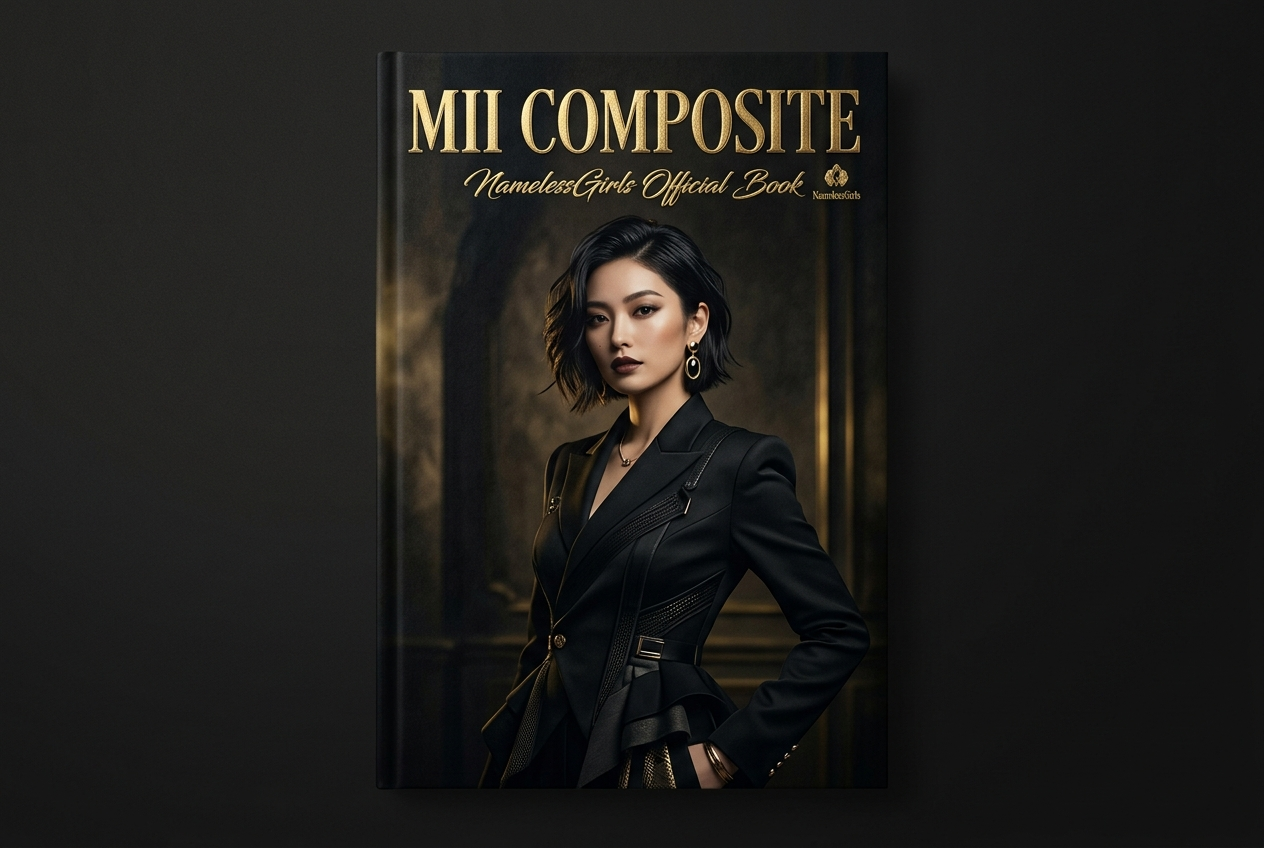
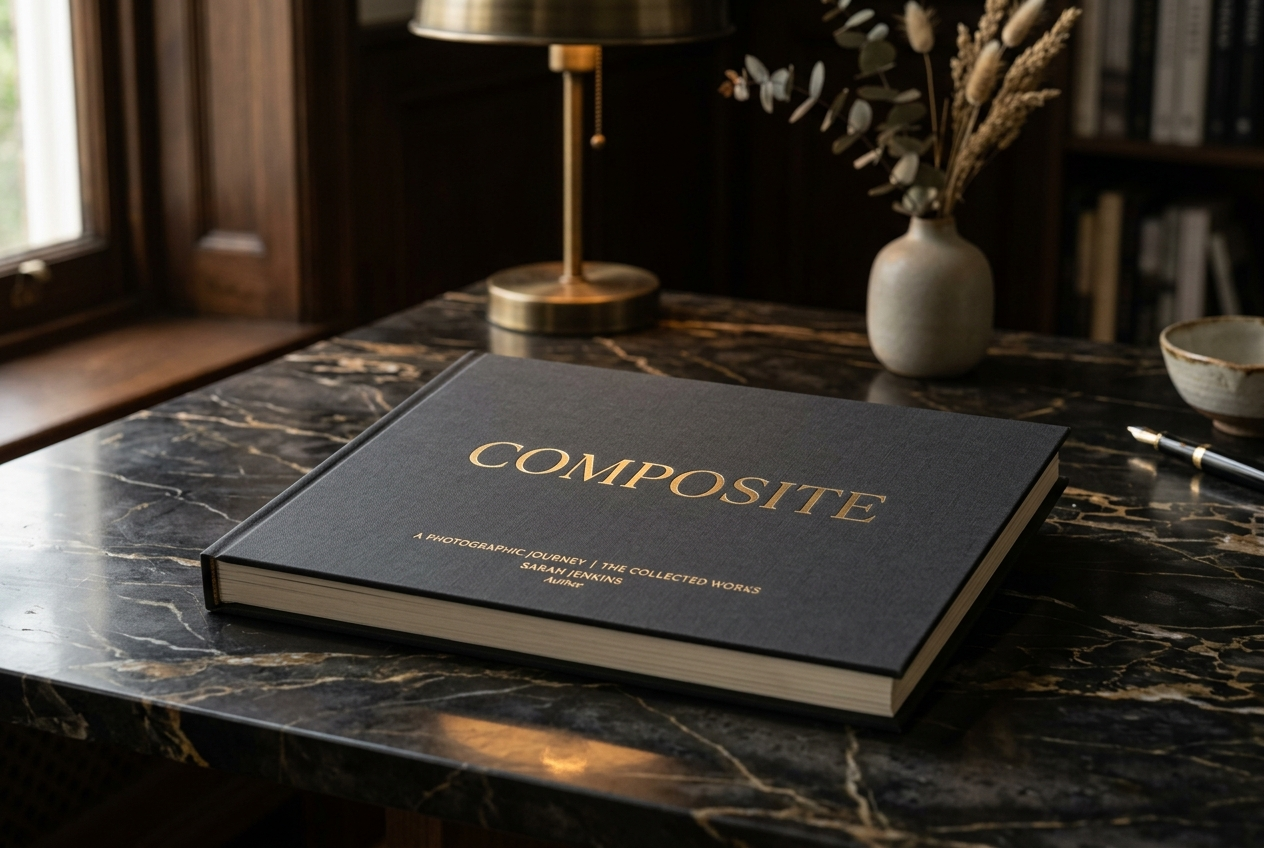
Auto-deploy: Update BOOTH link and sync repository

diff --git a/index.html b/index.html
@@ -23,7 +23,7 @@
   <link rel="stylesheet" href="https://cdnjs.cloudflare.com/ajax/libs/font-awesome/6.5.1/css/all.min.css">
   
   <!-- Custom Stylesheet with Cache Buster -->
-  <link rel="stylesheet" href="style.css?v=18.0">
+  <link rel="stylesheet" href="style.css?v=19.0">
 </head>
 <body>
 
@@ -303,7 +303,7 @@
         <!-- Digital Photo Book Shop -->
         <a href="https://namelessgirls.booth.pm/" target="_blank" class="shop-card glass-panel">
           <div class="shop-card-img-wrapper">
-            <img src="assets/images/photobook_cover.jpg?v=16.0" alt="Mii Photobook Cover" class="shop-card-img">
+            <img src="assets/images/photobook_cover.jpg?v=18.0" alt="Mii Photobook Cover" class="shop-card-img">
           </div>
           <div class="shop-card-content">
             <div class="shop-info-text">
@@ -323,7 +323,7 @@
         <!-- New Integrated Concept Store (Rakuten & Amazon merge) -->
         <a href="store.html" class="shop-card glass-panel">
           <div class="shop-card-img-wrapper">
-            <img src="assets/images/rakuten_preview.jpg?v=17.0" alt="Secret Store Items" class="shop-card-img">
+            <img src="assets/images/rakuten_preview.jpg?v=18.0" alt="Secret Store Items" class="shop-card-img">
           </div>
           <div class="shop-card-content">
             <div class="shop-info-text">

diff --git a/rin.html b/rin.html
@@ -18,7 +18,7 @@
   <link href="https://fonts.googleapis.com/css2?family=Yomogi&family=Zen+Kurenaido&family=Mr+De+Haviland&display=swap" rel="stylesheet">
 
   <!-- Custom Stylesheet -->
-  <link rel="stylesheet" href="style.css?v=18.0">
+  <link rel="stylesheet" href="style.css?v=19.0">
   
   <style>
     .profile-container {

diff --git a/sana-yua.html b/sana-yua.html
@@ -18,7 +18,7 @@
   <link href="https://fonts.googleapis.com/css2?family=Yomogi&family=Zen+Kurenaido&family=Mr+De+Haviland&display=swap" rel="stylesheet">
 
   <!-- Custom Stylesheet -->
-  <link rel="stylesheet" href="style.css?v=18.0">
+  <link rel="stylesheet" href="style.css?v=19.0">
   
   <style>
     .profile-container {
